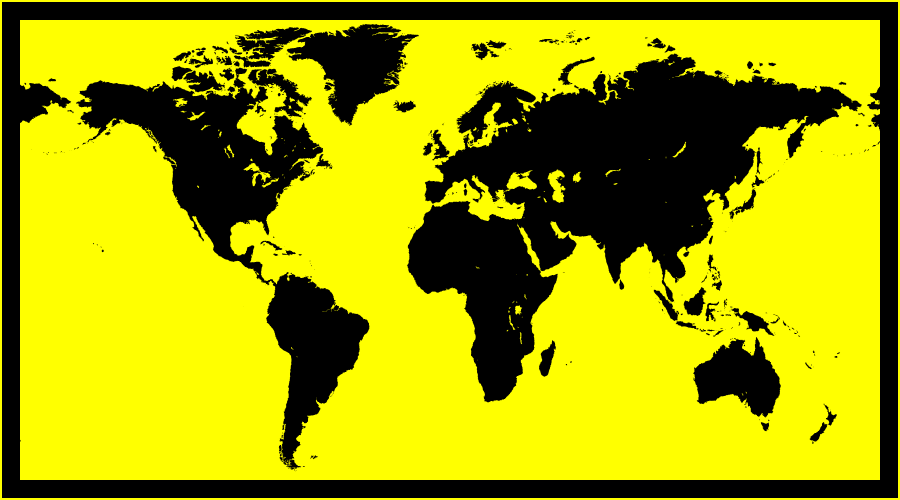
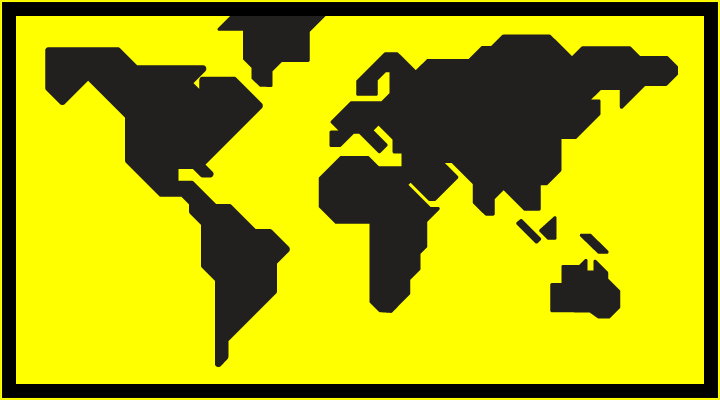
new map graphic; updated overflow interaction

diff --git a/js/base.js b/js/base.js
@@ -5,6 +5,7 @@ var $body,
 	$mapPanel1,
 	$mapPanel2,
 	$mapPanel3,
+	$mapCover,
 	$coverflow,
 	$toggleBtn,
 	$toggleOn,
@@ -207,6 +208,7 @@ function setupMap() {
 	$mapPanel1 = $('.panel-1');
 	$mapPanel2 = $('.panel-2');
 	$mapPanel3 = $('.panel-3');
+	$mapCover = $('.map-cover');
 	$map.bind('click', toggleMap);
 
 	map = new Photon.FaceGroup($('.map')[0], $('.map .face'), 1.5, .2, true);
@@ -243,6 +245,7 @@ function rotateMap(e) {
 	var yPer = e.pageY / $body.height();
 
 	$mapPanel1.css('-webkit-transform', 'rotateY(' + (178 - (138 * xPer)) + 'deg)');
+	$mapCover.css('-webkit-transform', 'rotateY(' + (178 - (138 * xPer)) + 'deg) translateZ(-2px) rotateY(180deg) translateX(240px)');
 	$mapPanel3.css('-webkit-transform', 'rotateY(' + (178 - (138 * xPer)) + 'deg)');
 	$map.css('-webkit-transform', 'rotateX(' + (40 - (yPer * 70)) + 'deg) rotateY(' + (20 - (xPer * 60)) + 'deg) rotateZ(0)');
 
@@ -273,7 +276,7 @@ function setupCoverflow() {
 
 	$coverflowItems.eq(1).bind('webkitTransitionEnd', stopRenderTimer);
 	
-	$coverflow.bind('click', changeCover);
+	// $coverflow.bind('click', changeCover);
 
 	setCoverTransforms();
 }
@@ -286,6 +289,28 @@ function changeCover() {
 function setCoverTransforms(animate) {
 	if(!renderTimer && animate) {
 		renderTimer = setInterval(renderCoverflow, 34);
+	}
+	for(var i = 0; i < coverflowFaces.length; i++) {
+		var element = coverflowFaces[i].element;
+		var offset = Math.abs(currentCover - i);
+		var x = i == currentCover ? 0 : (150 + (100 * offset)) * (i < currentCover ? -1 : 1);
+		var z = i == currentCover ? 0 : -200;
+		// var rotationY = i == currentCover ? 0 : 80 * (i < currentCover ? 1 : -1);
+
+		var rotationY = i == currentCover ? 0 : (80 + (offset * -5)) * (i < currentCover ? 1 : -1);
+
+		$(element).css('-webkit-transform', 'translateX(' + x +'px) translateZ(' + z + 'px) rotateY(' + rotationY + 'deg)');
+	}
+}
+
+function rotateCoverflow(e) {
+	var xPer = e.pageX / $body.width();
+
+	var newIndex = (coverflowFaces.length -1) - Math.round((coverflowFaces.length -1) * xPer);
+
+	if(!renderTimer && newIndex != currentCover) {
+		renderTimer = setInterval(renderCoverflow, 34);
+		currentCover = newIndex;
 	}
 	for(var i = 0; i < coverflowFaces.length; i++) {
 		var element = coverflowFaces[i].element;
@@ -320,6 +345,7 @@ function hideCoverflow() {
 
 function showCoverflow() {
 	$coverflow.show();
+	$body.bind('mousemove', rotateCoverflow);
 }
 
 

diff --git a/css/base.css b/css/base.css
@@ -74,8 +74,8 @@ h2:after {
 
 .primary-menu .download-btn {
 	margin-top: 20px;
-	padding: 3px 6px;
-	background: #ff0;
+	padding: 6px 18px 9px 41px;
+	background: url(../images/download-arrow.png) no-repeat 13px 11px #ff0;
 	color: #000;
 	border-radius: 2px;
 }
@@ -554,7 +554,7 @@ h2:after {
 	top: -230px;
 	width: 240px;
 	height: 400px;
-	background: url(../images/map-2.png) no-repeat;
+	background: url(../images/map.png) no-repeat;
 }
 
 .panel-1 {
@@ -562,6 +562,17 @@ h2:after {
 	background-position: 0 0;
 	-webkit-transform-origin: right;
 	-webkit-transform: rotateY(178deg);
+}
+
+.map-cover {
+	position: absolute;
+	top: -230px;
+	left: -360px;
+	width: 240px;
+	height: 400px;
+	background: url(../images/map-cover.png) no-repeat;
+	-webkit-transform-origin: right;
+	-webkit-transform: rotateY(178deg) translateZ(-2px) rotateY(180deg) translateX(240px);
 }
 
 .map.is-open .panel-1 {

diff --git a/index.html b/index.html
@@ -31,7 +31,7 @@
 		<li><a href="index.html" class="current">Examples</a></li>
 		<li><a href="docs.html">Documentation</a></li>
 		<li><a href="https://github.com/thomasxiii/photon">GitHub Project</a></li>
-		<li><a href="js/photon.min.js" class="download-btn">photon.min.js</a></li>
+		<li><a href="js/photon.min.js" class="download-btn">download</a></li>
 	</ul>
 </nav>
 
@@ -95,6 +95,7 @@
 	</ul>
 
 	<div class="map">
+		<div class="map-cover face"></div>
 		<div class="panel-1 face"></div>
 		<div class="panel-2 face"></div>
 		<div class="panel-3 face"></div>

diff --git a/docs.html b/docs.html
@@ -30,7 +30,7 @@
 		<li><a href="index.html">Examples</a></li>
 		<li><a href="docs.html" class="current">Documentation</a></li>
 		<li><a href="https://github.com/thomasxiii/photon">GitHub Project</a></li>
-		<li><a href="js/photon.min.js" class="download-btn">photon.min.js</a></li>
+		<li><a href="js/photon.min.js" class="download-btn">download</a></li>
 	</ul>
 </nav>
 
